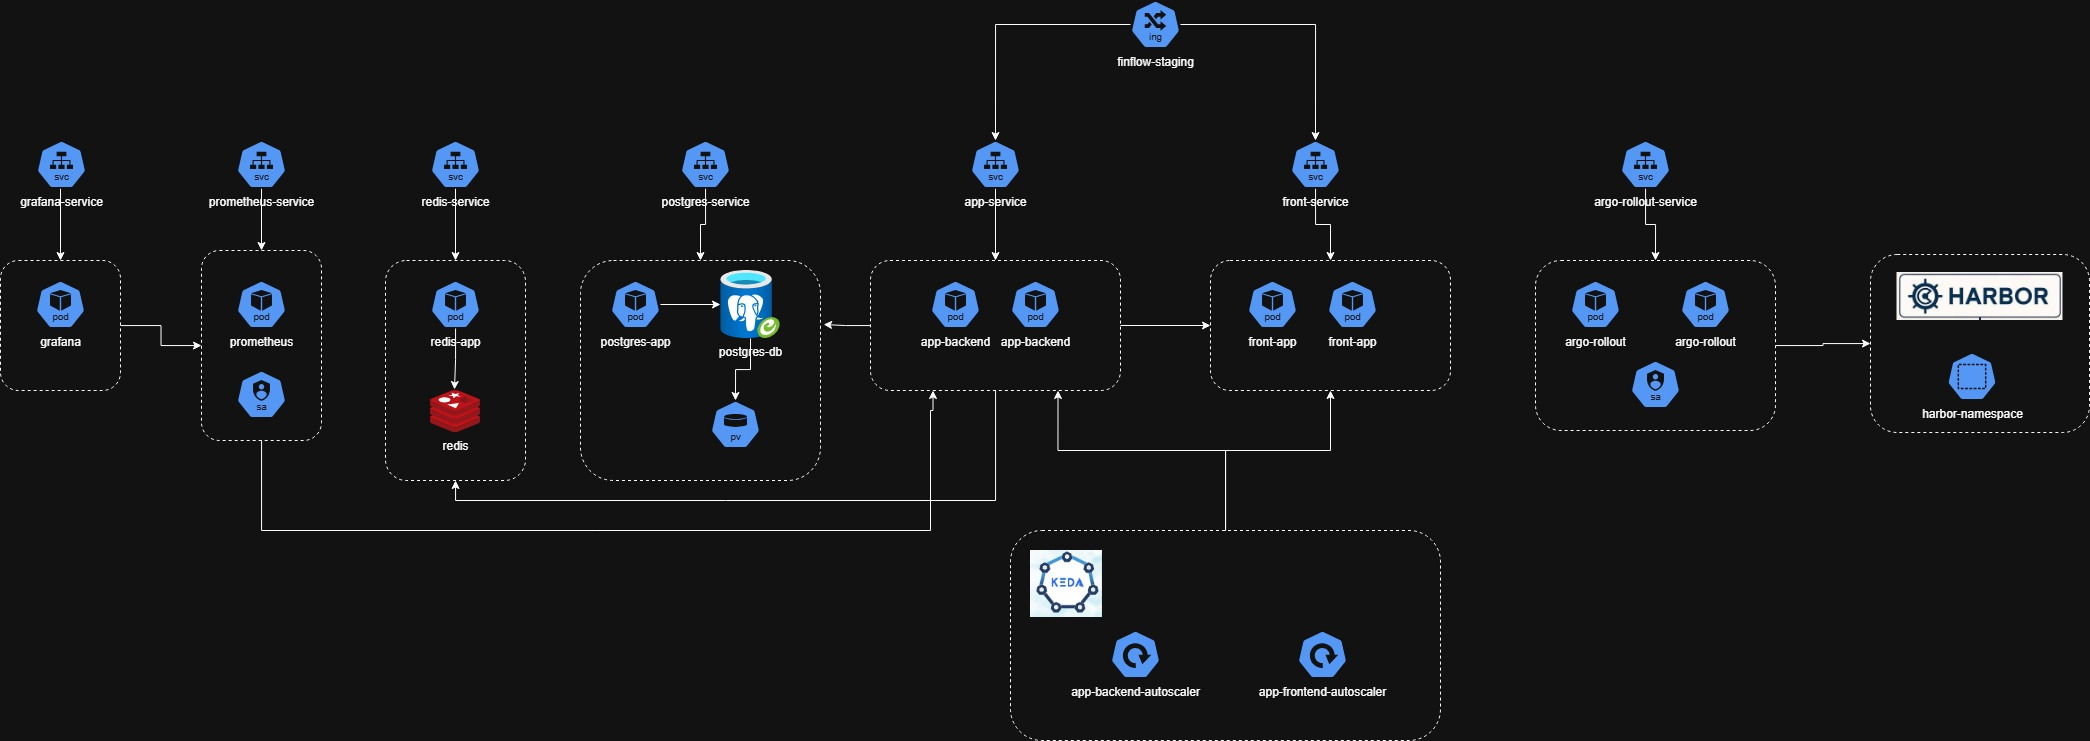
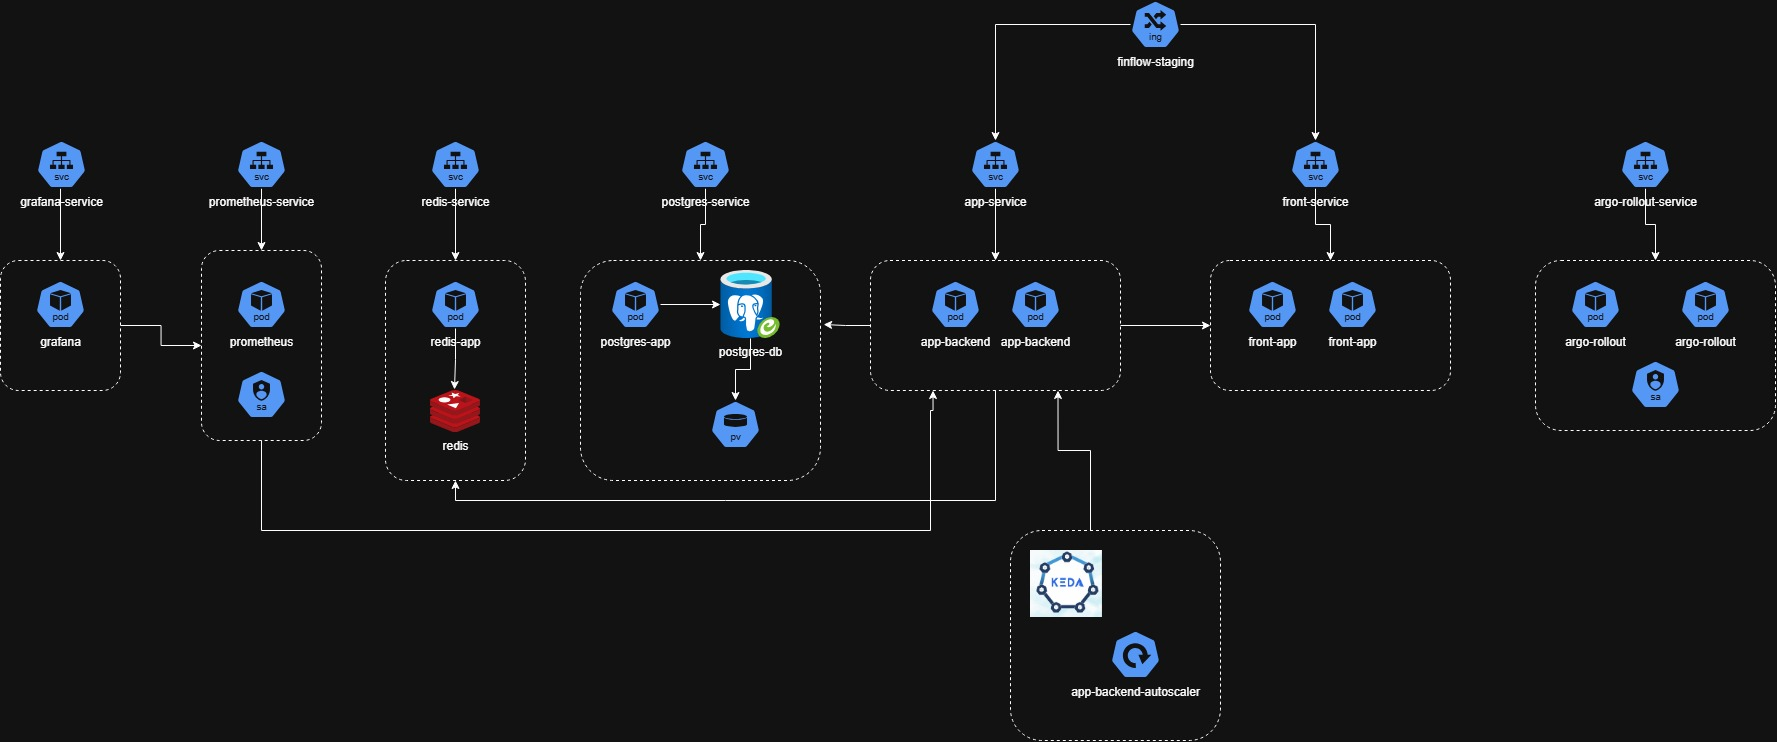
doc : diagramas finalizados - nuevo diagrama de gitops

diff --git a/Construccion_y_orquestacion_de_contenedores.md b/Construccion_y_orquestacion_de_contenedores.md
@@ -14,6 +14,8 @@ Con el objetivo de aislar los diferentes ambientes de trabajo, el clúster se or
 
 Cada uno de los entornos de aplicación mantiene sus propios recursos de Kubernetes, tales como Ingress, Services y Pods, permitiendo que las aplicaciones se ejecuten de forma aislada mientras comparten la misma infraestructura física del clúster.
 
+![Diagrama de coneccion de namespaces](./Diagramas/Diagrama%20gitops.jpg)
+
 ### 2.1 infrastructure
 
 Utilizado para implementacion de herramientas externas a la aplicacion, como herramientas de monitoreo (prometheus y grafana), autoescalado (keda), feature flags (unleash), entre otras.